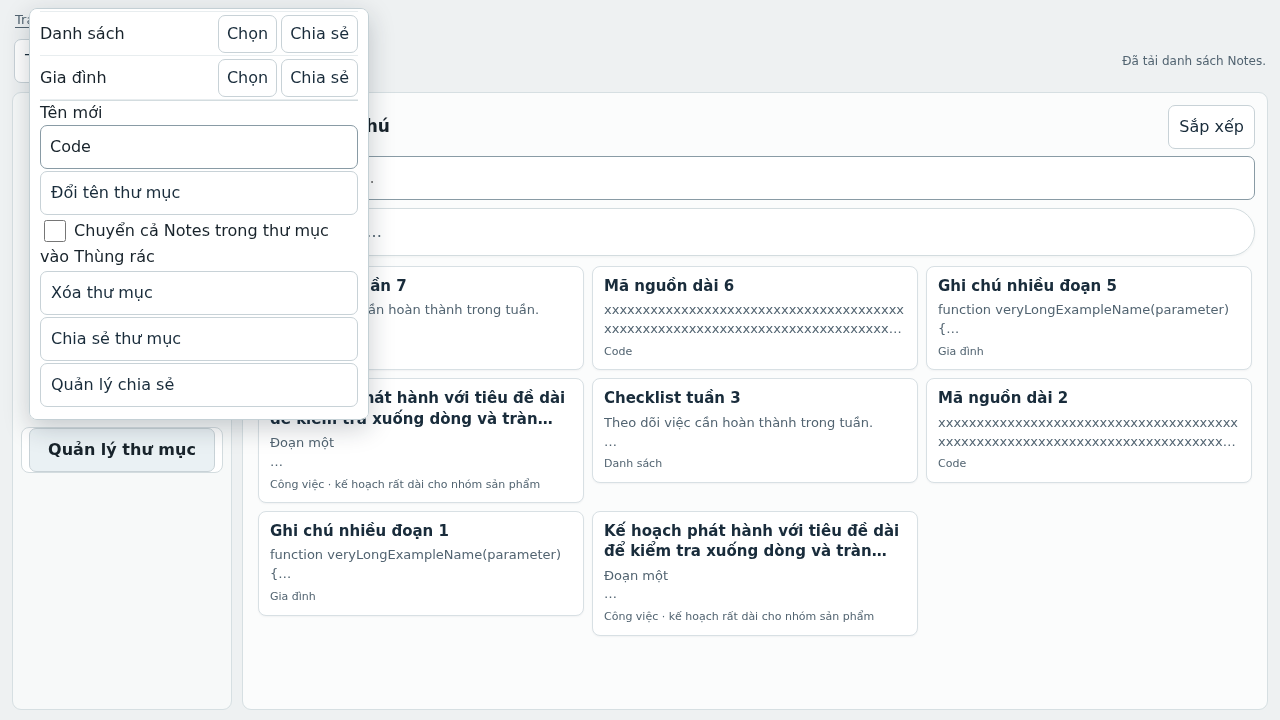
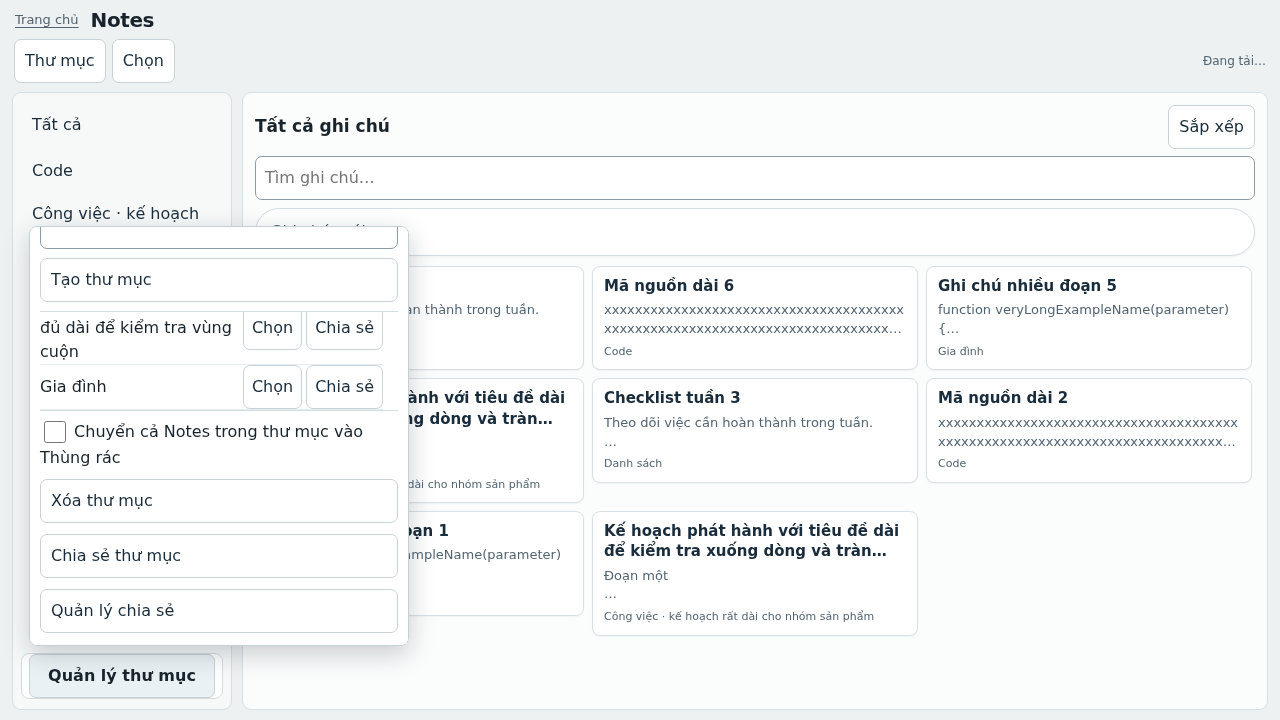
fix: size low viewport composer and folder manager

diff --git a/public/app.css b/public/app.css
@@ -22,9 +22,10 @@ body.quick-compose-open #editor-backdrop{display:none!important}
 @media(min-width:961px) and (max-width:1200px){.workspace-toolbar #folder-collapse-toggle{display:none}.layout{grid-template-columns:minmax(0,1fr)}.layout>#folder-panel{position:fixed;z-index:82;inset:0 auto 0 0;width:min(330px,84vw);max-height:100dvh;padding:14px 10px;display:none;border-radius:0 10px 10px 0;box-shadow:10px 0 34px #12202e35}.folder-drawer-open .layout>#folder-panel{display:flex}#folder-drawer-toggle{display:inline-flex;align-items:center;justify-content:center;min-height:44px;padding-inline:9px}#drawer-backdrop:not([hidden]){position:fixed;z-index:81;inset:0;display:block;width:100%;height:100%;border:0;border-radius:0;background:#101a22a3;box-shadow:none}.layout.editor-open{display:block}.layout.editor-open>#list-pane{display:none}.layout.editor-open>#editor{position:fixed;inset:0;width:100%;height:100dvh;max-height:100dvh;border:0;border-radius:0}.layout.editor-open>#folder-panel{display:none}}
 
 /* Focused revision: compact composer controls, responsive workspace and folder table. */
-#quick-create[hidden]{display:none!important}.selection-active #quick-create{display:none}.workspace-toolbar #bulk-toolbar{flex:1;margin:0}.editor-top #expand-composer{display:inline-flex;align-items:center;justify-content:center;min-width:44px;min-height:44px;padding:0 8px;font-size:0}.editor-top #expand-composer:before{content:'↗';font-size:20px}.quick-composer #expand-composer{display:inline-flex;align-self:auto}.quick-composer .editor-top{gap:3px}.quick-composer .editor-top #close-editor{margin-right:0;min-width:44px;font-size:0}.quick-composer .editor-top #close-editor:after{content:'×';font-size:24px}.quick-composer .editor-top #save-status{flex:1;max-width:none}.quick-composer #editor-more{margin-left:0}.quick-composer #text{flex:1 1 0;min-height:96px;resize:none}.quick-composer .editor-scroll,.quick-composer .editor-content{min-height:0}.quick-composer .editor-content{padding-bottom:12px}.quick-composer{height:min(420px,calc(100dvh - var(--safe-t) - var(--safe-b) - var(--keyboard-inset) - 16px))!important;min-height:min(210px,calc(100dvh - var(--keyboard-inset) - 16px))!important}.quick-composer.composer-expanded{height:min(78dvh,calc(100dvh - var(--safe-t) - var(--safe-b) - var(--keyboard-inset) - 16px))!important}.quick-composer #editor-history[hidden],.quick-composer #note-sharing[hidden]{display:none!important}.note-meta>select{flex:0 1 220px;min-width:0;min-height:40px;padding:5px 28px 5px 12px;border:1px solid var(--line);border-radius:22px;background:#f7f9fa}.folder-table{max-height:min(36dvh,300px);overflow:auto;border-block:1px solid var(--line)}.folder-manager-row{display:grid;grid-template-columns:minmax(0,1fr) auto auto;gap:4px;align-items:center;min-height:44px;border-bottom:1px solid #e8edef}.folder-manager-row>span{min-width:0;overflow-wrap:anywhere}.folder-manager-row button{min-height:38px;padding-inline:8px}.layout.editor-open{grid-template-columns:minmax(280px,36%) minmax(0,1fr)}.layout.editor-open #list-pane{display:flex}.layout.editor-open #editor{position:relative;inset:auto;z-index:91}.layout.editor-open.editor-expanded{grid-template-columns:minmax(0,1fr)}.layout.editor-open.editor-expanded #list-pane{display:none}.layout.editor-open.editor-expanded #editor{position:fixed;inset:2dvh 2vw;width:96vw;height:96dvh;z-index:91}.layout.editor-open #editor.composer-expanded{inset:1dvh 1vw;width:98vw;height:98dvh;border-radius:10px}.editor-top #editor-history>summary,.editor-top #note-sharing>summary{min-height:44px}.quick-composer #editor-history[hidden],.quick-composer #note-sharing[hidden]{display:none!important}
+#quick-create[hidden]{display:none!important}.selection-active #quick-create{display:none}.workspace-toolbar #bulk-toolbar{flex:1;margin:0}.editor-top #expand-composer{display:inline-flex;align-items:center;justify-content:center;min-width:44px;min-height:44px;padding:0 8px;font-size:0}.editor-top #expand-composer:before{content:'↗';font-size:20px}.quick-composer #expand-composer{display:inline-flex;align-self:auto}.quick-composer .editor-top{gap:3px}.quick-composer .editor-top #close-editor{margin-right:0;min-width:44px;font-size:0}.quick-composer .editor-top #close-editor:after{content:'×';font-size:24px}.quick-composer .editor-top #save-status{flex:1;max-width:none}.quick-composer #editor-more{margin-left:0}.quick-composer #text{flex:1 1 0;min-height:96px;resize:none}.quick-composer .editor-scroll,.quick-composer .editor-content{min-height:0}.quick-composer .editor-content{padding-bottom:12px}.quick-composer{height:min(420px,calc(100dvh - var(--safe-t) - var(--safe-b) - var(--keyboard-inset) - 16px))!important;min-height:min(210px,calc(100dvh - var(--keyboard-inset) - 16px))!important}.quick-composer.composer-expanded{height:min(78dvh,calc(100dvh - var(--safe-t) - var(--safe-b) - var(--keyboard-inset) - 16px))!important}.quick-composer #editor-history[hidden],.quick-composer #note-sharing[hidden]{display:none!important}.note-meta>select{flex:0 1 220px;min-width:0;min-height:40px;padding:5px 28px 5px 12px;border:1px solid var(--line);border-radius:22px;background:#f7f9fa}.folder-table{max-height:min(36dvh,300px);overflow:auto;border-block:1px solid var(--line)}.folder-manager-row{display:grid;grid-template-columns:minmax(0,1fr) auto auto;gap:4px;align-items:center;min-height:44px;border-bottom:1px solid #e8edef}.folder-manager-row>span{min-width:0;overflow-wrap:anywhere}.folder-manager-row button{min-height:44px;padding-inline:8px}.layout.editor-open{grid-template-columns:minmax(280px,36%) minmax(0,1fr)}.layout.editor-open #list-pane{display:flex}.layout.editor-open #editor{position:relative;inset:auto;z-index:91}.layout.editor-open.editor-expanded{grid-template-columns:minmax(0,1fr)}.layout.editor-open.editor-expanded #list-pane{display:none}.layout.editor-open.editor-expanded #editor{position:fixed;inset:2dvh 2vw;width:96vw;height:96dvh;z-index:91}.layout.editor-open #editor.composer-expanded{inset:1dvh 1vw;width:98vw;height:98dvh;border-radius:10px}.editor-top #editor-history>summary,.editor-top #note-sharing>summary{min-height:44px}.quick-composer #editor-history[hidden],.quick-composer #note-sharing[hidden]{display:none!important}
 @media(max-width:960px){.workspace-toolbar #bulk-toolbar{order:0}.workspace-toolbar #workspace-status{display:none}.quick-composer #text{min-height:80px}.quick-composer{height:min(430px,calc(100dvh - var(--safe-t) - var(--safe-b) - var(--keyboard-inset) - 12px))!important;min-height:min(190px,calc(100dvh - var(--keyboard-inset) - 12px))!important}.quick-composer.composer-expanded{height:min(82dvh,calc(100dvh - var(--safe-t) - var(--safe-b) - var(--keyboard-inset) - 12px))!important}.layout.editor-open #editor{inset:0;border-radius:0}.layout.editor-open #list-pane{display:none}}
 @media(max-width:560px){.workspace-toolbar{min-height:44px}.quick-create{min-height:44px;margin:0 0 5px}.editor-top{min-height:48px;padding-inline:5px}.quick-composer .editor-top #close-editor{min-width:44px}.quick-composer .editor-top #save-status{font-size:11px}.folder-manager-row{grid-template-columns:minmax(0,1fr) 44px 44px}.folder-manager-row button{padding:0;font-size:12px}}
 
 .selection-active .workspace-toolbar>#folder-collapse-toggle,.selection-active .workspace-toolbar>#select-mode,.selection-active .workspace-toolbar>#workspace-status{display:none!important}.selection-active .workspace-toolbar{min-height:48px}.quick-composer #editor-more .menu-panel{max-height:min(60dvh,480px)}
-.menu-panel-portal.folder-manager-panel{position:fixed;max-height:min(620px,calc(100dvh - 16px));overflow:auto}.editor-top #expand-composer:before{content:none}.editor-top #expand-composer svg{display:block;width:20px;height:20px;fill:none;stroke:currentColor;stroke-width:2;stroke-linecap:round;stroke-linejoin:round}
+.menu-panel-portal.folder-manager-panel{position:fixed;display:flex;flex-direction:column;gap:7px;width:min(380px,calc(100vw - 16px));max-height:calc(100dvh - 16px);overflow-x:hidden;overflow-y:auto;overscroll-behavior:contain}.folder-manager-panel .folder-table{flex:0 1 auto;min-height:100px;max-height:min(32dvh,260px);overflow:auto;overscroll-behavior:contain;scrollbar-gutter:stable}.editor-top #expand-composer:before{content:none}.editor-top #expand-composer svg{display:block;width:20px;height:20px;fill:none;stroke:currentColor;stroke-width:2;stroke-linecap:round;stroke-linejoin:round}
+.quick-composer .editor-scroll{display:flex;flex-direction:column}.quick-composer .editor-content{flex:1 0 0;height:100%;min-height:0}.quick-composer #text{flex:1 1 0;min-height:40px;max-height:none;resize:none}.quick-composer #checklist:empty{display:none}.quick-composer #checklist:not(:empty){display:block;flex:0 1 auto;max-height:30%;overflow:auto;overscroll-behavior:contain}

diff --git a/public/app.js b/public/app.js
@@ -13,7 +13,8 @@ function positionActionMenu(menu,panel){
  panel.style.left='0px';panel.style.top='0px';panel.style.right='auto';panel.style.bottom='auto';
  const availableWidth=Math.max(0,right-left-gap*2)/zoom;panel.style.maxWidth=availableWidth+'px';panel.style.minWidth=Math.min(220,availableWidth)+'px';
  const width=panel.getBoundingClientRect().width,spaceBelow=bottom-anchor.bottom-gap,spaceAbove=anchor.top-top-gap,needed=panel.scrollHeight*zoom,useBelow=needed<=spaceBelow||spaceBelow>=spaceAbove,space=useBelow?spaceBelow:spaceAbove;
- panel.style.maxHeight=Math.max(72,Math.min(620,(space-gap)/zoom))+'px';
+ const preferredHeight=panel.classList.contains('folder-manager-panel')?420:620;
+ panel.style.maxHeight=Math.max(72,Math.min(preferredHeight,(space-gap)/zoom))+'px';
  const height=panel.getBoundingClientRect().height;let x=anchor.right-width;
  if(x<left+gap&&anchor.left+width<=right-gap)x=anchor.left;
  x=Math.max(left+gap,Math.min(x,Math.max(left+gap,right-width-gap)));
@@ -106,7 +107,7 @@ function render(){
  $('folder-list').replaceChildren(folderButton('Tất cả','all',()=>{if(inTrash)setEditorOpen(false);inTrash=false;selecting=false;selected.clear();folder='';closeFolderDrawer();showListSurface();render();return refresh();}));
  for(const f of folders){const b=folderButton(f,'folder',()=>{if(inTrash)setEditorOpen(false);inTrash=false;selecting=false;selected.clear();folder=f;closeFolderDrawer();showListSurface();render();return refresh();});b.setAttribute('aria-pressed',String(folder===f));const row=document.createElement('div');row.className='folder-row';row.append(b);if(!shared&&sharedFolders.has(f)){const badge=button('Link',()=>{closeFolderDrawer();showFolderShares(f);});badge.className='folder-share-badge';badge.title='Đang chia sẻ · quản lý liên kết';badge.setAttribute('aria-label','Quản lý chia sẻ thư mục '+f);row.append(badge);}$('folder-list').append(row);}
  if(!shared)$('folder-list').append(folderButton('Thùng rác','trash',showTrash));
- $('folder').replaceChildren(new Option('Chưa phân loại',''),...folders.map(f=>new Option(f,f)));$('folders')?.replaceChildren(...folders.map(f=>new Option(f,f)));const destination=$('move-folder').value;$('move-folder').replaceChildren(new Option('Chưa phân loại',''),...folders.map(f=>new Option(f,f)));if(folders.includes(destination))$('move-folder').value=destination;const current=$('manage-folder').value;$('manage-folder').replaceChildren(new Option('Chọn thư mục…',''),...folders.map(f=>new Option(f,f)));if(folders.includes(current))$('manage-folder').value=current;const rows=$('folder-manager-rows'),signature=JSON.stringify(folders);if(signature!==folderManagerSignature){rows.replaceChildren(...folders.map(name=>{const row=document.createElement('div');row.className='folder-manager-row';const label=document.createElement('span');label.textContent=name;const choose=button('Chọn',()=>{$('manage-folder').value=name;$('rename-folder').value=name;});const shares=button('Chia sẻ',()=>{ $('manage-folder').value=name;showFolderShares(name).catch(fail);});row.append(label,choose,shares);return row;}));folderManagerSignature=signature;}
+ $('folder').replaceChildren(new Option('Chưa phân loại',''),...folders.map(f=>new Option(f,f)));$('folders')?.replaceChildren(...folders.map(f=>new Option(f,f)));const destination=$('move-folder').value;$('move-folder').replaceChildren(new Option('Chưa phân loại',''),...folders.map(f=>new Option(f,f)));if(folders.includes(destination))$('move-folder').value=destination;const current=$('manage-folder').value;$('manage-folder').replaceChildren(new Option('Chọn thư mục…',''),...folders.map(f=>new Option(f,f)));if(folders.includes(current))$('manage-folder').value=current;const rows=$('folder-manager-rows'),signature=JSON.stringify(folders);if(signature!==folderManagerSignature){rows.replaceChildren(...folders.map(name=>{const row=document.createElement('div');row.className='folder-manager-row';const label=document.createElement('span');label.textContent=name;const choose=button('Chọn',()=>{$('manage-folder').value=name;});const shares=button('Chia sẻ',()=>{ $('manage-folder').value=name;showFolderShares(name).catch(fail);});row.append(label,choose,shares);return row;}));folderManagerSignature=signature;}
 }
 async function refresh({background=false,security=false}={}){
  if(!authenticated&&!shared)return;if(background&&!security&&(backgroundBlocked()||active?.dirty))return;if(refreshing){if(!background)refreshQueued=true;return;}const requestScope=cacheScope;refreshing=true;if(!background)busy(true);
@@ -217,7 +218,6 @@ $('delete').addEventListener('click',async()=>{if(!active||active.dirty||!active
 $('history').addEventListener('change',()=>{if(inTrash)return;const v=active.note.history?.[Number($('history').value)];if($('history').value===''||!v)return;undo=null;changed({title:v.title,text:v.text,checklist:v.checklist??[],...(shared?{}:{folder:v.folder??''})}).then(fill);});
 $('conflict-copy').addEventListener('click',async()=>{const old=active;const note={...clone(old.note),id:crypto.randomUUID(),title:(old.note.title+' · bản sao').slice(0,200),history:[]};delete note.revision;active=makeSession(note);active.edit({});fill();await save();if(old) sessions.set(old.note.id,old);});
 $('remote-version').addEventListener('click',async()=>{if(!await hold({navigation:true}))return;const id=active.note.id;sessions.delete(id);active=null;await openNote(id);status('Đã mở bản máy chủ. Thay đổi xung đột vẫn ở trong phiên hiện tại.');});
-$('rename-folder-button').addEventListener('click',async()=>{const old=$('manage-folder').value,name=$('rename-folder').value.trim();if(!old||!name)return;if(active?.dirty&&!await hold())return;try{await api('folders',{method:'POST',data:{action:'rename',folder:old,newFolder:name,clientOpId:crypto.randomUUID()}});if(folder===old)folder=name;if(active?.note.folder===old){const id=active.note.id;active.dispose();sessions.delete(id);active=null;setEditorOpen(false);await refresh();await openNote(id);}else await refresh();$('rename-folder').value='';}catch(e){if(e.message==='FOLDER_RENAME_TOO_LARGE')status('Thư mục quá lớn để đổi tên nguyên tử trong một lần. Chưa có thay đổi nào được lưu.');else fail(e);}});
 $('create-folder').addEventListener('click',async()=>{try{await api('folders',{method:'POST',data:{action:'create',folder:$('new-folder').value}});$('new-folder').value='';await refresh();}catch(e){fail(e);}});
 $('remove-folder').addEventListener('click',async()=>{const f=$('manage-folder').value;const deleteNotes=$('delete-folder-notes').checked;if(!f||!confirm(deleteNotes?'Xóa thư mục và chuyển toàn bộ Note trong thư mục vào trạng thái đã xóa?':'Xóa thư mục và đưa các Note về danh sách tự do?'))return;try{await api('notes',{method:'POST',data:{action:'folderDelete',folder:f,deleteNotes}});if(folder===f)folder='';$('delete-folder-notes').checked=false;await refresh();}catch(e){fail(e);}});
 $('note-sharing').addEventListener('toggle',()=>{if($('note-sharing').open&&!inTrash&&!shared&&active?.baseRevision)loadShares('note',active.note.id).catch(fail);});

diff --git a/public/index.html b/public/index.html
@@ -41,8 +41,6 @@
             <button id="create-folder">Tạo thư mục</button>
             <div class="folder-table" role="group" aria-label="Danh sách thư mục"><div id="folder-manager-rows"></div></div>
             <select id="manage-folder" aria-label="Chọn thư mục" hidden></select>
-            <label for="rename-folder">Tên mới</label><input id="rename-folder" maxlength="80" aria-label="Tên thư mục mới">
-            <button id="rename-folder-button">Đổi tên thư mục</button>
             <label><input id="delete-folder-notes" type="checkbox"> Chuyển cả Notes trong thư mục vào Thùng rác</label>
             <button id="remove-folder">Xóa thư mục</button>
             <button id="share-folder">Chia sẻ thư mục</button>

diff --git a/docs/UI-REDESIGN-20261030/REPORT.md b/docs/UI-REDESIGN-20261030/REPORT.md
@@ -1,5 +1,7 @@
 # Giao diện workspace/editor — candidate review
 
+> Cập nhật sau phản hồi screenshot: PR #39 giờ chỉ giữ UI; backend/API rename và test liên quan đã tách sang [draft PR #40](https://github.com/hunghvt-cyber/web-notes/pull/40), chưa cloud-qualified và không được xem là hoàn tất. PR #39 không còn chứa rename.
+
 Ngày 30/10/2026. Đây là candidate để người dùng duyệt giao diện; **chưa merge, chưa deploy**, Production giữ nguyên `dpl_EJ7Dp2NjCzn6aA5WhNcbZgnnHz1J`. Candidate dựa trên main `91f7118a56b3a20bda0474b2e17b46c16f91440c` (tree `147bcb084f34ab644ab2e642f831a4258894499f`), tức bản compact PR #38 đã phát hành. PR #34, API/backend, Firestore, auth/config, prefetch và lazy history không được đưa vào.
 
 Source candidate vòng trước: `0540d0a1faa61885243d83a178b094623bb8e6c2` (tree `52e6f5506ae34fc92df5c8ee4d9610510b2fa90e`), dựa trên app source commit `b04649a773cef67833b02d90bbf569656af1f237`. Screenshot và `measurements.json` được dựng từ app source này với dữ liệu tổng hợp/in-memory fixture. Không dùng Notes thật. `vercel.json` chỉ thêm branch review này vào `git.deploymentEnabled=false`, để PR không tạo Vercel Preview deployment; không đổi cấu hình Production hay branch khác.
@@ -118,3 +120,19 @@ Bài học điều phối chung đã ghi vào repo canonical `hunghvt-cyber/ai-t
 Candidate được chuẩn bị để duyệt giao diện trong [draft PR #39](https://github.com/hunghvt-cyber/web-notes/pull/39); không merge/deploy. Checks `test`/`browser` hosted đều success cho tree code candidate. Folder rename còn blocker backend rõ ràng. Nếu sau khi duyệt candidate được phát hành, rollback dự kiến là gán lại từng alias Production về `dpl_EJ7Dp2NjCzn6aA5WhNcbZgnnHz1J`, rồi đọc lại đủ ba alias và health. Lượt này chưa deploy, nên không có rollback/deployment mới.
 
 Hosted CI final handoff: current PR head `0bd98e5e5528e635be1e50833bc5f29438a5ea0e` (tree `dc294b4986daf3589473ea2ae1063bbcc2ffbee6`) passed GitHub Actions [run #503](https://github.com/hunghvt-cyber/web-notes/actions/runs/41037196725), both `test` and `browser`. This commit only updates the handoff docs; application code remains the code candidate SHA above.
+
+
+## Screenshot correction — composer and folder manager
+
+- Composer 390×420: `editor-scroll` và `editor-content` giờ là flex column có chiều cao xác định; textarea nhận phần dư (`flex: 1 1 0`, `min-height: 0`). Khi checklist có phần tử thật, nó giữ vùng riêng giới hạn chiều cao và tự cuộn; checklist rỗng không chiếm chỗ. Browser assertion đo textarea cao hơn 180 px và khoảng dư cuối dưới 24 px; screenshot [composer 390×420](candidate/quick-compose-phone-390-low-viewport.png).
+- Folder manager là panel nổi gọn; danh sách có vùng cuộn riêng, panel ngoài vẫn cuộn để tới các thao tác cuối. Test fixture tạo nhiều folder synthetic, cuộn đến hàng cuối và click `Chọn` ở phone 390×844, iPad dọc và PC 1280×720; đồng thời cuộn panel và click `Quản lý chia sẻ`. Ảnh: [phone đầu](candidate/folder-management-phone-390-top.png), [phone cuối](candidate/folder-management-phone-390-bottom.png), [iPad đầu](candidate/folder-management-ipad-portrait-top.png), [iPad cuối](candidate/folder-management-ipad-portrait-bottom.png), [PC đầu](candidate/folder-management-pc-1280-top.png), [PC cuối](candidate/folder-management-pc-1280-bottom.png).
+- Chỉ chạy browser case `workspace-redesign-synthetic-layout-menus-editor-and-compose`: PASS; không chạy lại benchmark hoặc toàn bộ suite. Thay đổi không đụng API/auth/Firestore; PR #39 bỏ phần rename khỏi frontend/backend và test của nó. Rename giữ riêng ở draft PR #40, fixture 32/32 PASS; cloud runtime/Firestore qualification còn thiếu. Project/quota blocker cũ không được thử lại, billing/IAM/Production không đổi.
+- Screenshot Chromium headless với dữ liệu tổng hợp; không xác minh S25 Ultra/iPad thật, bàn phím OS hay IME.
+
+## Review incremental sau hai sửa
+
+- Key4/key5, model `gemini-3.5-flash-lite`, mỗi key một lượt, chạy song song (concurrency 2); wrapper help xác nhận `--key key4/key5`, cả hai exit 0, không timeout/retry. Thời gian batch đo từ hai exec/wait khoảng 2.7 s; duration tách từng key không có số đo wrapper đáng tin cậy.
+- Key4 cảnh báo textarea có thể co quá mức khi viewport/keyboard cực thấp, popup vượt viewport, và cần kiểm chứng click thực. Đã thêm min-height fallback 40 px; menu định vị tính theo visual viewport, giới hạn chiều cao theo vùng trống. Browser kiểm rectangle của hàng đầu/hàng cuối và thao tác cuối rồi click thật ở 390×844, 744×1133, 1280×720; các nút được assert visible ngay trước click. Bàn phím OS/device thật vẫn chưa thử.
+- Key5 nhắc không gọi text-only review là xem ảnh; Codex tự mở bảy PNG tổng hợp cập nhật bằng image viewer. Bổ sung assert checklist rỗng `display:none`, checklist có mục có vùng cuộn; kiểm bounds hàng đầu/cuối ở cả ba viewport. Key4/5 không xem pixel.
+- Kết quả test liên quan: `BROWSER_ONLY=workspace-redesign-synthetic-layout-menus-editor-and-compose npm run test:browser` PASS (khoảng 12.5 s); `npm run check:source` PASS, 49 file; `node --check scripts/browser-smoke.mjs` và `git diff --check` PASS. Không chạy benchmark hoặc toàn suite.
+- Rename không còn trong diff UI PR #39. Backend/API/repository và fixture tests được giữ ở [draft PR #40](https://github.com/hunghvt-cyber/web-notes/pull/40), chưa qualification Vercel OIDC/Cloud Firestore. Không thử lại GCP project/quota và không thay billing/IAM/Production.

diff --git a/docs/OPERATIONS.md b/docs/OPERATIONS.md
@@ -235,3 +235,10 @@ UI đã bỏ nút tạo trùng, thay toolbar trong selection mode, gom quick com
 PR #39 final candidate code verification: code SHA `a377753723c16db735e098dee03174e2af2006f5`, tree `f8953e122c9a7b2dd7e9e1cbf3dacfaed100cb3a`. Hosted Actions run `41036744748` (#502) passed `test` and `browser` on that exact code SHA. Earlier candidate runs #495–#501 exposed menu-state and portal-scroll bugs; the fix skips repositioning on scroll events originating inside `.menu-panel-portal`, opens controls from native `details.open`, scrolls to the target action and clicks the visible element scoped to the open portal. Full local browser is 34/34, offline 193/193, source check 49 files, `git diff --check` clean. No Vercel Preview or Production deployment was created; Vercel exact-SHA lookup for the code candidate returned zero.
 
 Incremental Gemini review after the portal-scroll change: key4/key5, gemini-3.5-flash-lite, one additional call each, parallel concurrency 2, no errors/retries; observed batch wall time about 4.9 s (individual durations not recorded). Key4 raised alias ACL inheritance as a concern; source inspection verified aliases are resolved only on authenticated owner mutations inside the current vault, while share reads are bound to the renamed target/token; tests cover rename/share/read/revoke. Cloud qualification remains outstanding. Key5 matched the screenshot-path checklist against the Codex visual observations, but wrapper is text-only and did not inspect pixels; Codex opened the synthetic PNGs. No S25 Ultra/iPad physical test, OS keyboard, or Vietnamese IME test. PR #39 remains draft; Production unchanged.
+
+
+## PR #39 screenshot corrections — 2026-10-30
+
+Composer low-viewport flex sizing and folder-manager scrolling were corrected on the PR #39 draft; filtered synthetic screenshots and the focused browser evidence are in [UI-REDESIGN-20261030/REPORT.md](UI-REDESIGN-20261030/REPORT.md). Targeted Playwright case passes. The unqualified backend rename API/repository/test diff was removed from PR #39 and isolated in draft PR [#40](https://github.com/hunghvt-cyber/web-notes/pull/40). Its Firestore fake/API fixture tests pass, but Vercel runtime + isolated Firestore cloud qualification remains unavailable; the prior project/quota path was not retried, and billing/IAM/Production were left unchanged. Neither PR is merged/deployed.
+
+Incremental review cho hai sửa PR #39: Gemini key4/key5 (gemini-3.5-flash-lite), một lượt mỗi key song song, exit 0 không lỗi; key4 gợi ý giới hạn popup theo visual viewport và fallback textarea, key5 yêu cầu evidence bounds/test chứ không suy từ ảnh. Codex áp dụng, mở screenshot thật bằng viewer và ghi chi tiết review/checks ở report. Đây không phải kiểm thử thiết bị/bàn phím OS.
